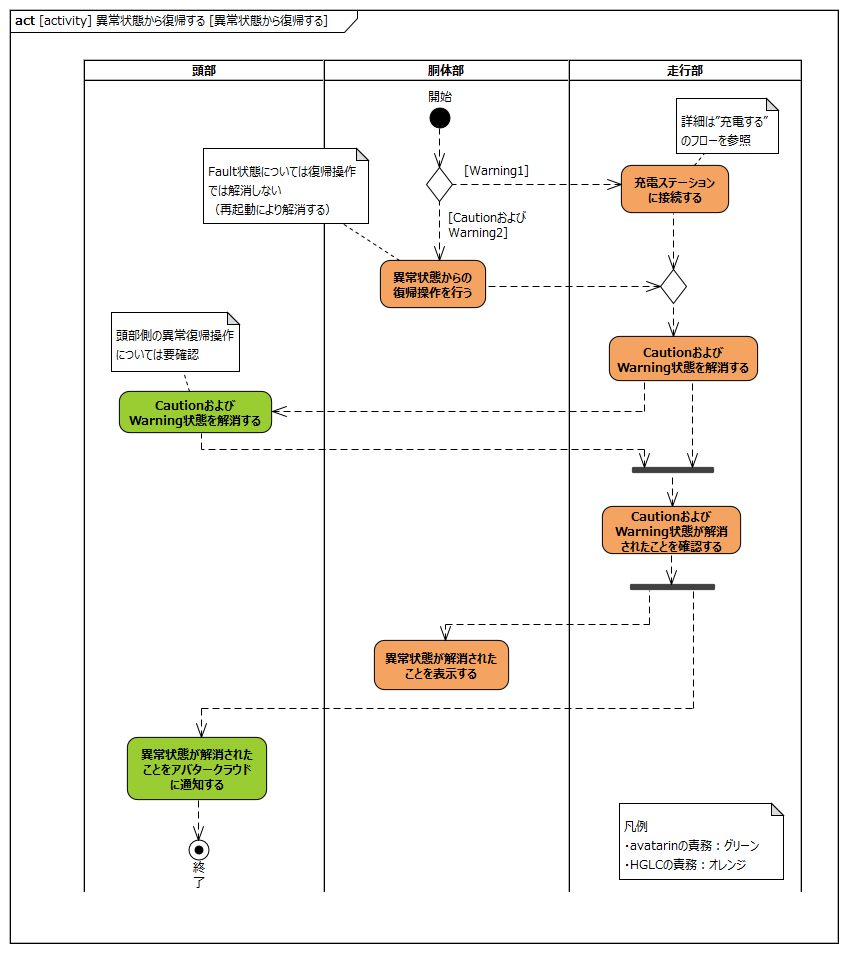
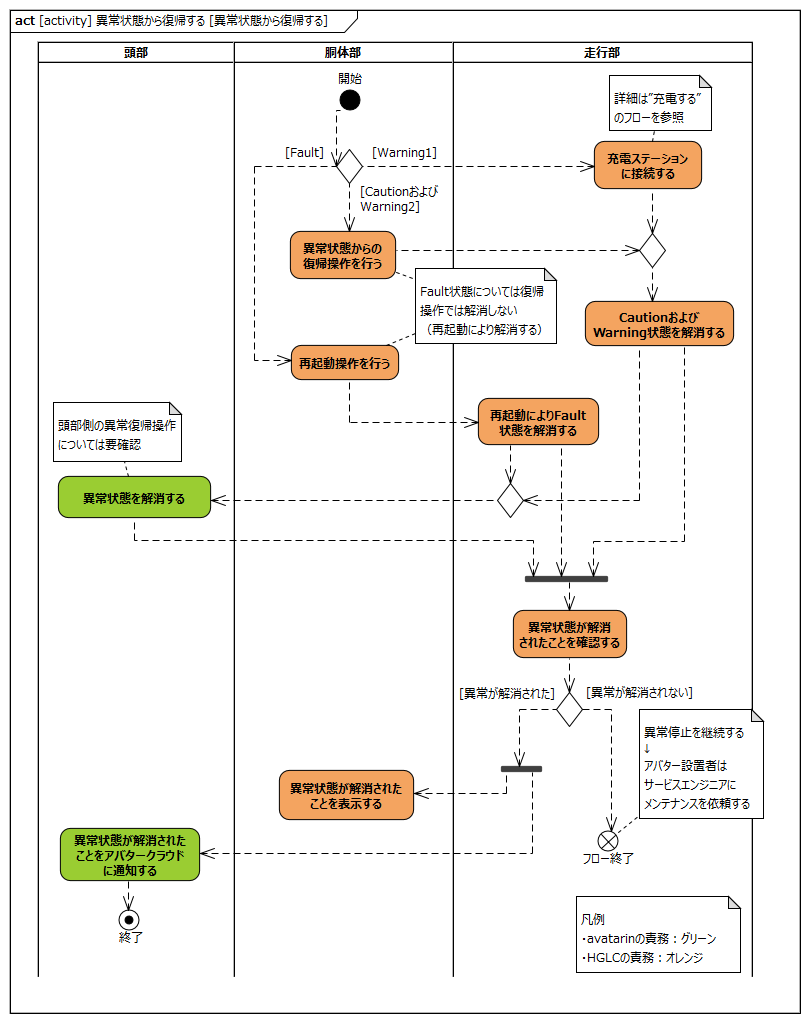
add l2 models for error recovery

Changed region(s): [[0.0, 0.0, 1.0, 1.0], [0.5556, 0.8216, 0.5864, 0.852]]

diff --git a/requirements/error_recovery.md b/requirements/error_recovery.md
@@ -1,0 +1,167 @@
+---
+title: テレプレゼンスロボット要求分析
+subtitle: 「SysRS-11b:異常状態から復帰する」のL2要求抽出
+author: 株式会社 豆蔵
+date: 2022年1月21日
+---
+<!-- ↑表紙ページのための情報 -->
+
+<div style="page-break-before:always"></div>
+
+# はじめに
+
+## 本書の目的
+
+本書の目的は、USDMによる要求記述のため、テレプレゼンスロボット本体のL0要求「SysRS-11b:異常状態から復帰する」のL1要求分析結果に基づき、HGLCが担当するL1要求に対してL2要求を抽出することである。
+
+## 適用
+
+本要件の適用対象は、テレプレゼンスロボット とする。
+
+## 用語の定義
+
+|用語|説明|
+|:---|:---|
+|特に無し|---|
+
+## 関連資料
+
+|資料名|説明|
+|:---|:---|
+|テレプレゼンスロボット要求一覧&USDM.xlsx|本文書の要求分析結果をまとめ、USDMの形式で記述したファイル|
+|機能干渉マトリクス.xlsx|本文書の要求分析および今後の仕様化を進める際に検討が必要な機能干渉についてマトリクス表で整理を行ったファイル|
+|テレプレゼンスロボット要求分析_L0L1要求抽出.docx|テレプレゼンスロボット本体のL0/L1要求分析についての検討過程を記述したファイル|
+
+
+<div style="page-break-before:always"></div>
+
+# L2要求分析
+
+「SysRS-11b:異常状態から復帰する」のアクティビティ図を以下に示す。
+
+![](.images/activity/error_recovery.png)
+
+上記L0のアクティビティ図のアクション/デシジョン等から導出された胴体部・走行部のL1要求に対するL2要求分析を行う。  
+※頭部に対してはavatarin側の責務のため、本書では対象外とする。
+
+<div style="page-break-before:always"></div>
+
+## 頭部は走行部からの指示により異常状態を解消する
+
+avatarin側の責務のため、対象外とする。
+
+<div style="page-break-before:always"></div>
+
+## 頭部は異常状態が解消されたことをアバタークラウドに通知する
+
+avatarin側の責務のため、対象外とする。
+
+<div style="page-break-before:always"></div>
+
+## 胴体部はCautionおよびWarning1状態の時に復帰操作を受け付ける
+
+![](.images/activity/error_recovery/body-act01.png)
+
+**L2要求抽出**
+
+|要求|備考|
+|:---|:---|
+|電源停止スイッチは復帰操作を検知し走行部に通知する|電源停止スイッチの短押しを想定|
+
+<div style="page-break-before:always"></div>
+
+## 胴体部はFault状態の時に再起動操作を受け付ける
+
+![](.images/activity/error_recovery/body-act02.png)
+
+**L2要求抽出**
+
+|要求|備考|
+|:---|:---|
+|電源停止スイッチは再起動操作を検知し走行部に通知する|再起動は一度電源OFFしてから電源ONを行う想定|
+
+<div style="page-break-before:always"></div>
+
+## 胴体部は異常状態が解消されたことを表示する
+
+![](.images/activity/error_recovery/body-act03.png)
+
+**L2要求抽出**
+
+|要求|備考|
+|:---|:---|
+|表示（LED等）は走行部からの表示指示に異常状態が解消されたことを表示する|表示指示については「状態を表示する」参照|
+
+
+<div style="page-break-before:always"></div>
+
+## 走行部はWarning1状態の時に充電ステーションへの接続による復帰操作を受け付ける
+
+![](.images/activity/error_recovery/act01.png)
+
+
+**L2要求抽出**
+
+|要求|備考|
+|:---|:---|
+|Miimo Main ECUはDC接続を検知し、復帰処理を開始する||
+
+<div style="page-break-before:always"></div>
+
+## 走行部は復帰操作によりCautionおよびWarning状態を解消する
+
+![](.images/activity/error_recovery/act02.png)
+
+
+**L2要求抽出**
+
+|要求|備考|
+|:---|:---|
+|Miimo Main ECUは内部のCautionおよびWarning状態を解消する||
+|Miimo Main ECUはエリアセンサのCautionおよびWarning状態を解消する||
+|Miimo Main ECUは左走行モータのCautionおよびWarning状態を解消する||
+|Miimo Main ECUは右走行モータのCautionおよびWarning状態を解消する||
+|Miimo Main ECUはブザーのCautionおよびWarning状態を解消する||
+|Miimo Main ECUはIMUのCautionおよびWarning状態を解消する||
+|Miimo Main ECUはBluetoothモジュールのCautionおよびWarning状態を解消する||
+|Miimo Main ECUはEEPROMのCautionおよびWarning状態を解消する||
+|Miimo Main ECUはバッテリのCautionおよびWarning状態を解消する||
+|Miimo Main ECUはCautionおよびWarning状態解除指示を送信する|頭部側の異常状態を解消するため|
+
+
+<div style="page-break-before:always"></div>
+
+## 走行部は再起動によりFault状態を解消する
+
+![](.images/activity/error_recovery/act03.png)
+
+
+**L2要求抽出**
+
+|要求|備考|
+|:---|:---|
+|Miimo Main ECUは再起動によりFault状態を解消する||
+|Miimo Main ECUはFault状態解除指示を送信する||
+
+
+<div style="page-break-before:always"></div>
+
+## 走行部は異常状態が解消されたことを確認する
+
+![](.images/activity/error_recovery/act04.png)
+
+
+**L2要求抽出**
+
+|要求|備考|
+|:---|:---|
+|Miimo Main ECUは内部のCautionおよびWarning状態が解消されたことを確認する||
+|Miimo Main ECUはエリアセンサのCautionおよびWarning状態が解消されたことを確認する||
+|Miimo Main ECUは左走行モータのCautionおよびWarning状態が解消されたことを確認する||
+|Miimo Main ECUは右走行モータのCautionおよびWarning状態が解消されたことを確認する||
+|Miimo Main ECUはブザーのCautionおよびWarning状態が解消されたことを確認する||
+|Miimo Main ECUはIMUのCautionおよびWarning状態が解消されたことを確認する||
+|Miimo Main ECUはBluetoothモジュールのCautionおよびWarning状態が解消されたことを確認する||
+|Miimo Main ECUはEEPROMのCautionおよびWarning状態が解消されたことを確認する||
+|Miimo Main ECUはバッテリのCautionおよびWarning状態が解消されたことを確認する||
+|Miimo Main ECUは異常状態確認結果を送信する||

diff --git a/requirements/requirement.md b/requirements/requirement.md
@@ -1815,13 +1815,15 @@ SysRS-11と統合のため廃止
 
 |要求|備考|
 |:---|:---|
-|頭部は走行部からの指示により異常（CautionおよびWarning）状態を解消する||
-|頭部は異常状態が解消されたことを通知する||
+|頭部は走行部からの指示により異常状態を解消する||
+|頭部は異常状態が解消されたことをアバタークラウドに通知する||
 |胴体部はCautionおよびWarning1状態の時に復帰操作を受け付ける||
+|胴体部はFault状態の時に再起動操作を受け付ける|Fault状態でも再起動を行えるようにする|
 |胴体部は異常状態が解消されたことを表示する||
 |走行部はWarning1状態の時に充電ステーションへの接続による復帰操作を受け付ける||
-|走行部は異常（CautionおよびWarning）状態を解消する||
-|走行部は異常（CautionおよびWarning）状態を解消されたことを確認する||
+|走行部は復帰操作によりCautionおよびWarning状態を解消する|復帰操作として電源スイッチ操作および充電ステーション接続を想定|
+|走行部は再起動によりFault状態を解消する|再起動でFault状態を解消できない場合はサービスエンジニアへメンテナンスを依頼する|
+|走行部は異常状態が解消されたことを確認する||
 
 <div style="page-break-before:always"></div>
 
